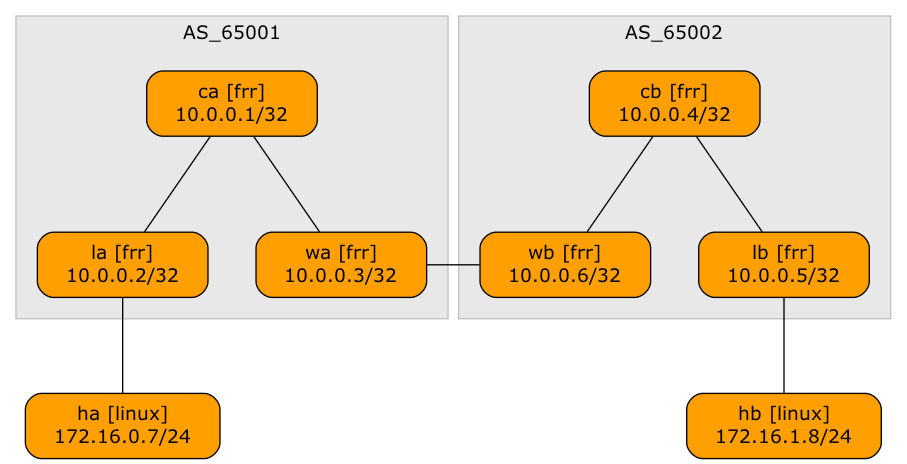
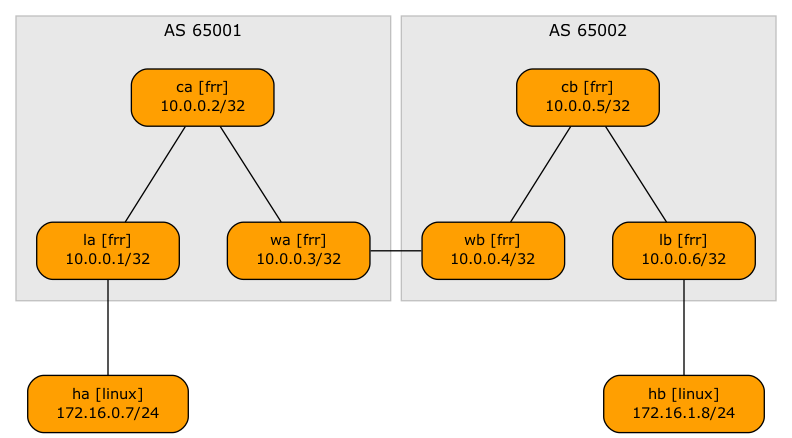
Add BGP session diagram to EVPN inter-AS scenario (#31)

diff --git a/EVPN/inter-as-a/README.md b/EVPN/inter-as-a/README.md
@@ -7,3 +7,5 @@ This directory contains the minimum lab topology needed to demonstrate a two-sit
 * The switches within a single site run OSPF, IBGP full mesh, and EVPN.
 * The link between the sites belongs to the tenant VRF (you could also use a VRF within a VLAN trunk)
 * WAN edge routers have an EBGP session in the tenant VRF. The routes exchanged over that session are propagated over intra-site EVPN as type-5 routes.
+
+![](inter-as-bgp.png)
